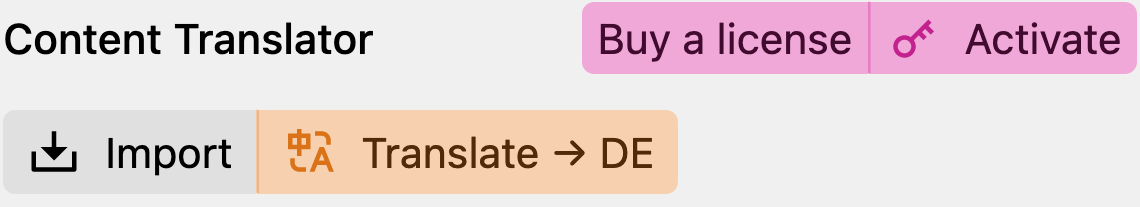
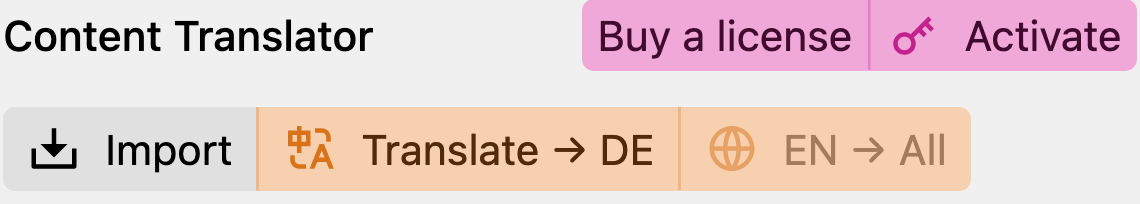
docs(translator): add `bulk` translation feature guide

diff --git a/components/content/PreviewDialog.vue b/components/content/PreviewDialog.vue
@@ -1,0 +1,15 @@
+<script setup lang="ts">
+defineProps<{
+  src: string;
+}>();
+</script>
+
+<template>
+  <div class="inline-block rounded-md bg-[#F0F0F0]">
+    <NuxtImg
+      :src="src"
+      alt="Kirby Tools section preview"
+      class="!my-0 w-[22rem] rounded-md"
+    />
+  </div>
+</template>

diff --git a/content/1.docs/2.content-translator/2.configuration.md b/content/1.docs/2.content-translator/2.configuration.md
@@ -99,7 +99,7 @@ type: content-translator
 import: false
 ```
 
-With the disabled import feature, the section will look like this:
+With the disabled `import` feature (and `bulk` feature for the sake if the screenshot), the section will look like this:
 
 ::preview{src="/img/kirby-content-translator-section-no-import.png"}
 ::
@@ -108,7 +108,7 @@ With the disabled import feature, the section will look like this:
 
 With the default plugin configuration, the import process will only allow copying content from the default language to secondary languages. Not the other way around. This protects the content of the default language from being overwritten. The Panel section will indicate that importing from secondary languages is disabled:
 
-::preview{src="/img/kirby-content-translator-section-disabled.png"}
+::preview{src="/img/kirby-content-translator-section-import-all-disabled.png"}
 ::
 
 If you want to allow overwriting content of the default language by importing from a secondary language, you can set the `importFrom` property to `all`. This will enable you to import content from the secondary language to the default language:
@@ -126,6 +126,29 @@ The button text will change slightly to indicate that importing from secondary l
 ::callout{icon="i-ri-error-warning-line" color="amber"}
 This feature is disabled by default to prevent accidental overwriting of content. Use this feature with caution.
 ::
+
+### `bulk` :u-badge{label="Boolean" class="align-middle ml-2 !rounded-full" variant="subtle"}
+
+Kirby Content Translator v2.3.0+ allows you to translate the content of a given site, page or file model into all secondary languages in bulk. This means that you can now not only translate content per language, but also for all secondary languages at once: the content of all secondary languages is overwritten with the data of the default language and then translated into the respective language.
+
+::preview{src="/img/kirby-content-translator-section-help.png"}
+::
+
+Unlike per-language translation, this translation process **is not reversible** in the Panel and is handled server-side. Use it with caution, as it may take a while to translate all content.
+
+The button is only enabled when the default language content is active in the Panel. When the button is clicked, a confirmation dialog is displayed to prevent accidental bulk translation:
+
+::preview-dialog{src="/img/kirby-content-translator-section-dialog-bulk-translation.png"}
+::
+
+For security reasons, the confirmation modal cannot be disabled with the [`confirm`](#confirm) property.
+
+If you want to _disable_ bulk translation for multiple languages at once, you can set the `bulk` property to `false`. This will hide the bulk translation button in the section:
+
+```yaml [sections/content-translator.yml]
+type: content-translator
+bulk: false
+```
 
 ### `title` :u-badge{label="Boolean" class="align-middle ml-2 !rounded-full" variant="subtle"}
 
@@ -212,6 +235,27 @@ return [
             $deepL = new DeepL();
             return $deepL->translate($text, $targetLanguage, $sourceLanguage);
         }
+    ]
+];
+```
+
+## Overwriting Label Translations
+
+If you prefer to overwrite the default translations of the plugin, you can do so by adding translations for your language in the `languages` directory of your Kirby installation.
+
+::callout{icon="i-ri-information-line"}
+See the plugin's [`translations.php`](https://github.com/kirby-tools/kirby-content-translator/blob/main/src/extensions/translations.php) for the full list of translation keys.
+::
+
+For example, to change the translation of the import button to `Synchronize` in English, append the following `translations` array to the `languages/en.php` file:
+
+```php [languages/en.php]
+return [
+    'code' => 'en',
+    'name' => 'English',
+    // ... Other language configuration
+    'translations' => [
+        'johannschopplich.content-translator.import' => 'Synchronize'
     ]
 ];
 ```

diff --git a/content/1.docs/2.content-translator/5.changelog.md b/content/1.docs/2.content-translator/5.changelog.md
@@ -15,7 +15,25 @@ If you have downloaded the plugin as a ZIP file, you can download the latest ver
 
 ## What's New?
 
-### v2.2.2 :u-badge{label="Latest" class="align-middle ml-2 !rounded-full" variant="subtle"}
+### v2.3.0 :u-badge{label="Latest" class="align-middle ml-2 !rounded-full" variant="subtle"}
+
+Released on October 18, 2024.
+
+**🚀 Features**
+
+- New [`translateSlug`](/docs/content-translator/php-api#translateslug) PHP API method.
+- [Bulk translation](/docs/content-translator/configuration#bulk): The content of all secondary languages is overwritten with the data of the default language and then translated into the respective language.
+
+::preview{src="/img/kirby-content-translator-section-help.png"}
+::
+
+Unlike per-language translation, this translation process **is not reversible** in the Panel and is handled server-side. Use it with caution, as it may take a while to translate all content. When the button is clicked, a confirmation dialog is displayed to prevent accidental bulk translation.
+
+**🐞 Bug Fixes**
+
+- Disallow changing the slug on the homepage page ID.
+
+### v2.2.2
 
 Released on October 2, 2024.
 

diff --git a/content/1.docs/2.content-translator/3.php-api.md b/content/1.docs/2.content-translator/3.php-api.md
@@ -132,6 +132,25 @@ $translator->translateTitle('de', 'en');
 public function translateTitle(string $contentLanguageCode, string $toLanguageCode, string|null $fromLanguageCode = null): void
 ```
 
+### `translateSlug`
+
+The `translateSlug()` method renames the slug of a page. It accepts the content language, the target language, and the source language as the first, second, and third arguments.
+
+If the selected model is the homepage, this method will skip the translation and return early.
+
+```php
+$page = page('example');
+$translator = $page->translator();
+// Rename the slug of the German content to English
+$translator->translateSlug('de', 'en');
+```
+
+**Type Definitions**
+
+```php
+public function translateSlug(string $contentLanguageCode, string $toLanguageCode, string|null $fromLanguageCode = null): void
+```
+
 ### `model`
 
 When making changes to a model's content, Kirby will return a clone of the model. That's why you need to reassign the model to the variable you are using if you want to access the updated (translated) content.
